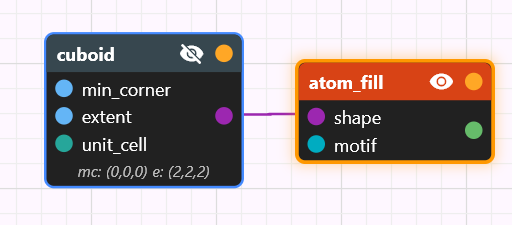
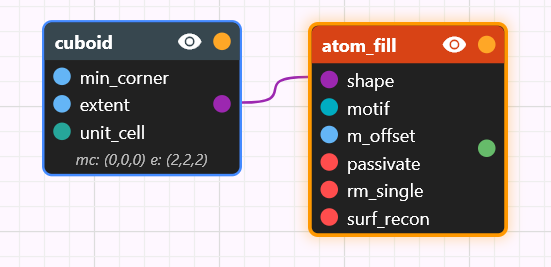
extending documentation with new atom_fill input pins and headless mode of atomCAD

diff --git a/doc/atomCAD_reference_guide.md b/doc/atomCAD_reference_guide.md
@@ -969,3 +969,9 @@ BOND INTERIOR4 ...FACE_Z
 BOND INTERIOR4 .+.FACE_Y
 BOND INTERIOR4 +..FACE_X
 ```
+
+## Headless Mode (CLI)
+
+atomCAD can run in headless mode for batch processing and automation workflows. The CLI supports both single-run and batch-mode evaluation of node networks with parameterized inputs, exporting results to `.mol` or `.xyz` files.
+
+For detailed usage instructions, see [CLI Usage Guide](./cli_usage.md).
